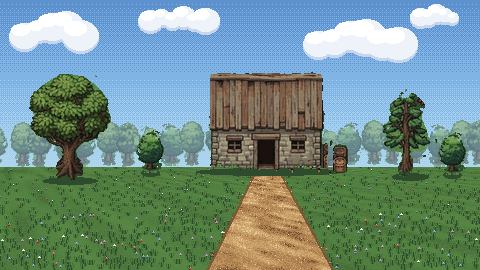
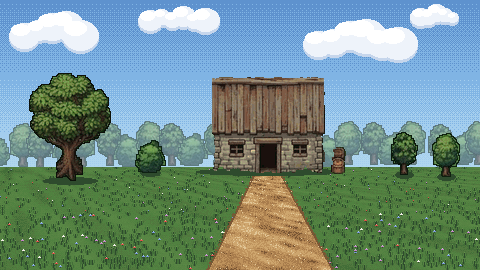
art(fondos): recortes limpios en los pétalos y ojos amables para Alex
- Los árboles, la florería, los barriles y el banco de los fondos de pétalos ya no traen restos
  del pasto del pueblo: recorte() decide cada píxel por color (núcleo de la forma contra el
  anillo de afuera), deja solo madera en el tronco, corta derecho la base de las casas, se
  queda con la silueta principal sin pelos ni agujeros y le pone contorno oscuro. Los pinos,
  que en la pintura se montan de a dos, salen de los fondos; la florería ya no se lleva el seto.
- Los ojos de Alex se repintan como los de Liss: pestañas, iris café tibio, un blanco suave y
  un solo píxel de brillo, el mismo dibujo en los dos ojos.

Claude-Session: https://claude.ai/code/session_01BUPpVNLpGxYMkRXD6AAzZQ

diff --git a/tools/fondos.py b/tools/fondos.py
@@ -22,9 +22,10 @@ from __future__ import annotations
 
 import argparse
 import sys
+from collections import deque
 from pathlib import Path
 
-from PIL import Image, ImageDraw
+from PIL import Image, ImageChops, ImageDraw, ImageFilter
 
 sys.path.insert(0, str(Path(__file__).parent))
 import escenarios  # noqa: E402
@@ -66,20 +67,176 @@ def mapa(nombre: str) -> Image.Image:
     return Image.open(ruta).convert("RGB")
 
 
-def recorte(imagen: Image.Image, formas: list[tuple], ajuste: int = 3) -> Image.Image:
-    """Un pedazo de la pintura con fondo transparente, con el borde pegado a la silueta pintada
-    (la misma receta que los frentes de los mapas)."""
-    mascara = escenarios.mascara_frente({"formas": formas}, imagen, ajuste)
-    caja = mascara.getbbox()
-    pieza = imagen.crop(caja).convert("RGBA")
-    pieza.putalpha(mascara.crop(caja).point(lambda v: 255 if v > 127 else 0))
-    return pieza
+def _luz(color) -> float:
+    return 0.3 * color[0] + 0.59 * color[1] + 0.11 * color[2]
+
+
+def _distancia(a, b) -> int:
+    return 3 * (a[0] - b[0]) ** 2 + 4 * (a[1] - b[1]) ** 2 + 2 * (a[2] - b[2]) ** 2
+
+
+def _vecinos4(x: int, y: int):
+    return ((x + 1, y), (x - 1, y), (x, y + 1), (x, y - 1))
+
+
+def recorte(imagen: Image.Image, formas: list[tuple], tronco: tuple | None = None,
+            base: int | None = None, contorno: bool = True) -> Image.Image:
+    """Un pedazo de la pintura listo para ir contra el cielo: sin un píxel del suelo que tenía.
+
+    Los frentes de los mapas se recortan con una forma y un ajuste de borde, y algo de pasto
+    les queda pegado: no importa, porque se dibujan encima del mismo pasto. Contra un cielo, en
+    cambio, cada resto se ve. Así que acá:
+
+    1. los colores del objeto salen de su núcleo (la forma achicada) y los del suelo de un anillo
+       por fuera de la forma; cada color se queda del lado donde es más común;
+    2. el suelo es lo que se alcanza desde el borde pasando solo por colores de suelo, así un
+       verde de pasto adentro de la copa (rodeado de hojas) no se pierde;
+    3. en `tronco` (x, desde, piso, medio ancho) manda otra regla: solo sobrevive la madera, que
+       tira a rojo, y no el pasto de al lado ni la sombra del piso;
+    4. con `base`, todo lo de abajo de esa fila se corta derecho (una casa apoya en una línea);
+    5. limpieza: se abre la silueta (fuera lo de menos de 3 px de grueso), queda solo la parte
+       más grande y sin agujeros, y se le pone un contorno oscuro con el tono más hondo del
+       objeto, para que el borde se lea pintado y no recortado.
+
+    No todo sale bien recortado: los pinos del pueblo están montados de a dos o tres y se llevan
+    ramas del vecino. Por eso los fondos usan solo los árboles que quedan limpios.
+    """
+    mascara_forma = Image.new("L", imagen.size, 0)
+    for forma in formas:
+        escenarios.dibujar_forma(ImageDraw.Draw(mascara_forma), forma, 255)
+    if tronco:
+        tx, desde, piso, medio = tronco
+        escenarios.dibujar_forma(ImageDraw.Draw(mascara_forma), ("rect", tx - medio, desde, tx + medio + 1, piso + 1), 255)
+    x0, y0, x1, y1 = mascara_forma.getbbox()
+    margen = 12
+    caja = (max(0, x0 - margen), max(0, y0 - margen), min(imagen.width, x1 + margen),
+            min(imagen.height, y1 + margen))
+    zona = imagen.crop(caja).convert("RGB")
+    ancho, alto = zona.size
+    px = zona.load()
+    forma = mascara_forma.crop(caja)
+    lado = max(2, round(min(x1 - x0, y1 - y0) * 0.22))
+    nucleo = forma.filter(ImageFilter.MinFilter(2 * lado + 1)).load()
+    cerca = forma.filter(ImageFilter.MaxFilter(5)).load()        # la forma, 2 px más ancha
+    lejos = forma.filter(ImageFilter.MaxFilter(9)).load()        # de acá para afuera es suelo
+
+    def en_tronco(x: int, y: int) -> bool:
+        if not tronco:
+            return False
+        gx, gy = x + caja[0], y + caja[1]
+        return tx - medio - 2 <= gx <= tx + medio + 2 and gy >= desde
+
+    del_objeto, del_suelo = {}, {}
+    for y in range(alto):
+        for x in range(ancho):
+            if nucleo[x, y]:
+                del_objeto[px[x, y]] = del_objeto.get(px[x, y], 0) + 1
+            elif not lejos[x, y]:
+                del_suelo[px[x, y]] = del_suelo.get(px[x, y], 0) + 1
+    total_o, total_s = sum(del_objeto.values()) or 1, sum(del_suelo.values()) or 1
+    conocidos = list(del_objeto) + list(del_suelo)
+    clase: dict = {}
+
+    def es_objeto(color) -> bool:
+        if color not in clase:
+            o, s_ = del_objeto.get(color, 0), del_suelo.get(color, 0)
+            if o + s_ == 0:
+                vecino = min(conocidos, key=lambda k: _distancia(k, color))
+                o, s_ = del_objeto.get(vecino, 0), del_suelo.get(vecino, 0)
+            clase[color] = (o + 0.3) / total_o >= (s_ + 0.3) / total_s
+        return clase[color]
+
+    def es_madera(color) -> bool:
+        return color[0] >= color[1] - 2 or _luz(color) < 40
+
+    def es_suelo(x: int, y: int) -> bool:
+        if base is not None and y + caja[1] > base:
+            return True
+        if not cerca[x, y]:
+            return True
+        if en_tronco(x, y):
+            return not es_madera(px[x, y])
+        if nucleo[x, y]:
+            return False
+        return not es_objeto(px[x, y])
+
+    suelo = [[False] * ancho for _ in range(alto)]
+    cola = deque(p for p in [(x, y) for x in range(ancho) for y in (0, alto - 1)] +
+                 [(x, y) for y in range(alto) for x in (0, ancho - 1)] if es_suelo(*p))
+    for x, y in cola:
+        suelo[y][x] = True
+    while cola:
+        x, y = cola.popleft()
+        for nx, ny in _vecinos4(x, y):
+            if 0 <= nx < ancho and 0 <= ny < alto and not suelo[ny][nx] and es_suelo(nx, ny):
+                suelo[ny][nx] = True
+                cola.append((nx, ny))
+
+    marca = Image.new("L", (ancho, alto), 0)
+    marca.putdata([0 if suelo[y][x] or not cerca[x, y] else 255 for y in range(alto) for x in range(ancho)])
+    marca = limpiar(marca)
+
+    pieza = Image.new("RGBA", (ancho, alto), (0, 0, 0, 0))
+    pieza.paste(zona, (0, 0), marca)
+    if contorno:
+        hondos = sorted(del_objeto, key=_luz)[:max(1, len(del_objeto) // 12)]
+        tinta = tuple(round(sum(c[i] for c in hondos) / len(hondos) * 0.65) for i in range(3))
+        borde = ImageChops.subtract(marca.filter(ImageFilter.MaxFilter(3)), marca)
+        pieza.paste(tinta + (255,), (0, 0), borde)
+    return pieza.crop(pieza.getbbox())
+
+
+def limpiar(marca: Image.Image) -> Image.Image:
+    """La silueta sin basura: abierta (fuera los pelos y los grumos de menos de 3 px), la parte
+    más grande sola y sin agujeros."""
+    abierta = marca.filter(ImageFilter.MinFilter(3)).filter(ImageFilter.MaxFilter(3))
+    ancho, alto = abierta.size
+    datos = abierta.load()
+    visto = [[False] * ancho for _ in range(alto)]
+    mejor: list = []
+    for y in range(alto):
+        for x in range(ancho):
+            if datos[x, y] and not visto[y][x]:
+                parte, cola = [], deque([(x, y)])
+                visto[y][x] = True
+                while cola:
+                    a, b = cola.popleft()
+                    parte.append((a, b))
+                    for na, nb in _vecinos4(a, b):
+                        if 0 <= na < ancho and 0 <= nb < alto and datos[na, nb] and not visto[nb][na]:
+                            visto[nb][na] = True
+                            cola.append((na, nb))
+                if len(parte) > len(mejor):
+                    mejor = parte
+    sola = Image.new("L", (ancho, alto), 0)
+    sd = sola.load()
+    for x, y in mejor:
+        sd[x, y] = 255
+    # Sin agujeros: lo vacío que no se alcanza desde el borde pasa a ser parte de la silueta.
+    afuera = [[False] * ancho for _ in range(alto)]
+    cola = deque(p for p in [(x, y) for x in range(ancho) for y in (0, alto - 1)] +
+                 [(x, y) for y in range(alto) for x in (0, ancho - 1)] if not sd[p[0], p[1]])
+    for x, y in cola:
+        afuera[y][x] = True
+    while cola:
+        a, b = cola.popleft()
+        for na, nb in _vecinos4(a, b):
+            if 0 <= na < ancho and 0 <= nb < alto and not sd[na, nb] and not afuera[nb][na]:
+                afuera[nb][na] = True
+                cola.append((na, nb))
+    for y in range(alto):
+        for x in range(ancho):
+            if not afuera[y][x]:
+                sd[x, y] = 255
+    return sola
 
 
 def arbol(imagen: Image.Image, tronco: int, piso: int, medio: int, cx: int, cy: int, rx: int, ry: int) -> Image.Image:
     """Un árbol del pueblo recortado entero: copa y tronco. Mismos números que `#! arbol` en
     maps/pueblo.txt."""
-    return recorte(imagen, [("elipse", cx, cy, rx, ry), ("rect", tronco - medio, cy, tronco + medio + 1, piso + 1)])
+    # La regla del tronco (solo madera) empieza abajo de la copa: si empezara adentro, se comería
+    # las hojas que tapan el tronco y el tronco quedaría suelto.
+    return recorte(imagen, [("elipse", cx, cy, rx, ry)], tronco=(tronco, cy + round(ry * 0.85), piso, medio))
 
 
 def a_lo_lejos(pieza: Image.Image, cielo: tuple, cuanto: float) -> Image.Image:
@@ -97,6 +254,21 @@ def a_lo_lejos(pieza: Image.Image, cielo: tuple, cuanto: float) -> Image.Image:
 def apoyar(lienzo: Image.Image, pieza: Image.Image, x: int, piso: int) -> None:
     """Pega una pieza con su base en la línea `piso` y centrada en `x`."""
     lienzo.alpha_composite(pieza, (x - pieza.width // 2, piso - pieza.height))
+
+
+def arboles(imagen: Image.Image) -> dict[str, Image.Image]:
+    """Los árboles del pueblo que se recortan limpios: el roble grande y tres redondos. (Los mismos
+    números que sus `#! arbol` en maps/pueblo.txt.)"""
+    return {
+        "roble": arbol(imagen, 298, 110, 10, 298, 38, 40, 36),
+        "redondo": arbol(imagen, 744, 208, 4, 744, 188, 12, 18),
+        "alto": arbol(imagen, 360, 52, 4, 360, 27, 12, 17),
+        "claro": arbol(imagen, 230, 52, 4, 230, 27, 12, 17),
+    }
+
+
+def espejo(pieza: Image.Image) -> Image.Image:
+    return pieza.transpose(Image.Transpose.FLIP_LEFT_RIGHT)
 
 
 # --- cielo y pasto ------------------------------------------------------------------------------
@@ -229,12 +401,12 @@ def fondo_petalos1() -> Image.Image:
         nube(lienzo, x, y, w, sal, tonos_nube)
 
     verdes = paleta_de_pasto(pueblo)
-    lejanos = [arbol(pueblo, 744, 208, 4, 744, 188, 12, 18), arbol(pueblo, 40, 205, 4, 41, 185, 13, 16),
-               arbol(pueblo, 360, 52, 4, 360, 27, 12, 17), arbol(pueblo, 230, 52, 4, 230, 27, 12, 17)]
+    arbol_ = arboles(pueblo)
+    lejanos = [arbol_["redondo"], arbol_["alto"], arbol_["claro"]]
     for i, x in enumerate(range(-6, ANCHO + 20, 22)):
-        pieza = a_lo_lejos(lejanos[(i * 3) % len(lejanos)], celeste, 0.5)
+        pieza = a_lo_lejos(lejanos[(i * 2) % len(lejanos)], celeste, 0.5)
         if ruido(i, 0, 73) > 0.5:                            # espejados, para que no se repitan
-            pieza = pieza.transpose(Image.Transpose.FLIP_LEFT_RIGHT)
+            pieza = espejo(pieza)
         apoyar(lienzo, pieza, x + int(ruido(i, 0, 71) * 8), HORIZONTE + 1 - int(ruido(i, 0, 72) * 4))
 
     lienzo.paste(pasto(verdes, [(214, 82, 72), (240, 236, 228), (122, 150, 214), (196, 132, 196)], 5),
@@ -242,26 +414,23 @@ def fondo_petalos1() -> Image.Image:
     tierra = [(122, 86, 52), (168, 124, 76), (190, 146, 92), (206, 166, 110), (226, 198, 150)]
     camino(lienzo, (256, 278), (206, 334), tierra)
 
-    floreria = recorte(pueblo, [("rect", 606, 77, 723, 176)])
-    barriles = recorte(pueblo, [("rect", 720, 145, 738, 179)])
+    # El techo llega a la columna 720 y la pared a la 718; justo al lado empieza un seto, que no va.
+    floreria = recorte(pueblo, [("rect", 606, 77, 721, 138), ("rect", 606, 138, 719, 176)], base=174,
+                       contorno=False)
+    barriles = recorte(pueblo, [("rect", 722, 145, 738, 179)], base=178, contorno=False)
     sombra_al_pie(lienzo, 196, 340, HORIZONTE + 4, verdes[0])
     apoyar(lienzo, floreria, 268, HORIZONTE + 6)
     apoyar(lienzo, barriles, 338, HORIZONTE + 7)
 
-    roble = arbol(pueblo, 298, 110, 10, 298, 38, 40, 36)
-    pino = recorte(pueblo, [("poli", [(466, 44), (480, 56), (490, 80), (494, 96), (486, 106), (470, 108),
-                                       (470, 126), (462, 126), (462, 108), (448, 106), (444, 96), (448, 76),
-                                       (456, 56)])])
-    redondo = arbol(pueblo, 744, 208, 4, 744, 188, 12, 18)
-    for pieza, x, piso in ((roble, 70, HORIZONTE + 14), (redondo, 150, HORIZONTE + 6),
-                           (pino, 410, HORIZONTE + 10), (redondo, 452, HORIZONTE + 8)):
+    for pieza, x, piso in ((arbol_["roble"], 70, HORIZONTE + 14), (arbol_["redondo"], 150, HORIZONTE + 6),
+                           (espejo(arbol_["alto"]), 404, HORIZONTE + 8), (arbol_["claro"], 446, HORIZONTE + 10)):
         sombra_al_pie(lienzo, x - pieza.width // 3, x + pieza.width // 3, piso - 1, verdes[0])
         apoyar(lienzo, pieza, x, piso)
     return lienzo.convert("RGB")
 
 
 def fondo_petalos2() -> Image.Image:
-    """El parque a las seis de la tarde: pinos, el banco del pícnic y el sol bajando."""
+    """El parque a las seis de la tarde: árboles, el banco del pícnic y el sol bajando."""
     pueblo = mapa("pueblo")
     horizonte_cielo = (244, 178, 98)
     lienzo = Image.new("RGBA", (ANCHO, ALTO), (0, 0, 0, 255))
@@ -276,27 +445,20 @@ def fondo_petalos2() -> Image.Image:
         nube(lienzo, x, y, w, sal, tonos_nube)
 
     verdes = paleta_de_pasto(pueblo)
-    lejanos = [arbol(pueblo, 744, 208, 4, 744, 188, 12, 18), arbol(pueblo, 360, 52, 4, 360, 27, 12, 17)]
-    pinos = [recorte(pueblo, [("poli", puntos)]) for puntos in (
-        [(580, 266), (598, 290), (604, 318), (600, 340), (592, 346), (592, 352), (580, 352), (580, 346),
-         (566, 342), (560, 318), (564, 292)],
-        [(708, 394), (718, 410), (728, 428), (738, 448), (740, 462), (724, 468), (716, 470), (716, 481),
-         (706, 481), (706, 470), (690, 466), (674, 460), (676, 444), (688, 428), (698, 410)],
-    )]
+    arbol_ = arboles(pueblo)
+    lejanos = [arbol_["alto"], arbol_["redondo"], arbol_["claro"]]
     suelo = Image.new("RGBA", (ANCHO, ALTO), (0, 0, 0, 0))
-    for i, x in enumerate(range(-8, ANCHO + 20, 20)):
-        pieza = a_lo_lejos((lejanos + pinos)[(i * 3) % 4], (200, 140, 130), 0.45)
+    for i, x in enumerate(range(-8, ANCHO + 20, 18)):
+        pieza = a_lo_lejos(lejanos[(i * 2) % len(lejanos)], (200, 140, 130), 0.45)
         if ruido(i, 1, 73) > 0.5:
-            pieza = pieza.transpose(Image.Transpose.FLIP_LEFT_RIGHT)
+            pieza = espejo(pieza)
         apoyar(suelo, pieza, x + int(ruido(i, 1, 71) * 8), HORIZONTE + 1 - int(ruido(i, 1, 72) * 5))
     suelo.paste(pasto(verdes, [(214, 82, 72), (240, 236, 228), (196, 132, 196)], 9), (0, HORIZONTE))
 
-    banco = recorte(pueblo, [("rect", 545, 358, 588, 387)])
-    canasta = recorte(pueblo, [("rect", 586, 372, 606, 396)])
-    roble = arbol(pueblo, 537, 158, 10, 535, 92, 40, 36)
-    for pieza, x, piso in ((roble, 92, HORIZONTE + 16), (pinos[0], 196, HORIZONTE + 10),
-                           (banco, 272, HORIZONTE + 14), (canasta, 304, HORIZONTE + 16),
-                           (pinos[1], 404, HORIZONTE + 12)):
+    banco = recorte(pueblo, [("rect", 545, 358, 588, 387)], base=386, contorno=False)
+    for pieza, x, piso in ((espejo(arbol_["roble"]), 404, HORIZONTE + 16), (arbol_["claro"], 70, HORIZONTE + 8),
+                           (arbol_["alto"], 122, HORIZONTE + 12), (banco, 250, HORIZONTE + 14),
+                           (espejo(arbol_["redondo"]), 316, HORIZONTE + 9)):
         sombra_al_pie(suelo, x - pieza.width // 3, x + pieza.width // 3, piso - 1, verdes[0])
         apoyar(suelo, pieza, x, piso)
 

diff --git a/tools/arte_extra.py b/tools/arte_extra.py
@@ -245,15 +245,20 @@ BIGOTE_SPRITE = [
 ]
 
 TINTA_SOFI = (44, 28, 40)
-# Los ojos de Alex, repintados: al bajar el retrato, el brillo de un ojo quedaba a un lado y el del
-# otro al otro (y la paleta lo teñía de verde). Los dos iguales, con la luz de arriba a la izquierda.
-OJO = {"k": (22, 12, 26), "n": (74, 46, 66), "W": (252, 246, 236), "w": (196, 186, 198)}
+# Los ojos de Alex, repintados a la manera de los de Liss: línea de pestañas arriba, iris café
+# tibio (no negro), un blanco suave a los lados y un solo píxel de brillo. Los de la hoja eran un
+# bloque oscuro de 4 × 5 que, al bajar el retrato, se veía amenazante y con el brillo desparejo.
+# El mismo dibujo va en los dos ojos (corrido, no espejado): el brillo queda en el mismo lugar.
+OJO = {"k": (30, 18, 30), "d": (72, 44, 54), "i": (120, 78, 70), "W": (255, 248, 236),
+       "w": (222, 200, 192), "p": (252, 196, 154), "q": (240, 168, 132), "s": (214, 140, 112)}
 OJO_RETRATO = [
-    "kkkk",
-    "kWwk",
-    "kWkk",
-    "kkkk",
-    "knnk",
+    "ppppppp",
+    "ppkkkpp",
+    "pkddikp",
+    "pwdWiwp",
+    "ppiiipp",
+    "ppqsqpp",
+    "ppppppp",
 ]
 
 COLETA = {"o": TINTA_SOFI, "d": (100, 54, 38), "m": (148, 88, 54), "l": (196, 134, 82),
@@ -523,8 +528,8 @@ def retrato(hoja: Hoja, ident: str) -> tuple[Image.Image, set]:
                             abajo=1.0 if receta.get("pelo_largo") else None)
     imagen = a_escala(cuadrado(figura), RETRATO)
     if ident == "alex":
-        for x in (17, 29):
-            fijos |= pintar(imagen, x, 24, OJO_RETRATO, OJO)
+        for x in (15, 28):                                 # eje de la cara: x = 24.5
+            fijos |= pintar(imagen, x, 22, OJO_RETRATO, OJO)
     elif ident == "flora":
         flor = flor_del_pelo(hoja, 11)
         imagen.alpha_composite(flor, (32, 3))

diff --git a/docs/arte.md b/docs/arte.md
@@ -65,7 +65,7 @@ La hoja no trae a los personajes tal como los pide el guion, así que a algunos 
 
 | Personaje | De la hoja | Retoque |
 |---|---|---|
-| Alex | el chico rizado de suéter verde | los ojos se repintan iguales, con el brillo arriba a la izquierda |
+| Alex | el chico rizado de suéter verde | los ojos se repintan como los de Liss: pestañas arriba, iris café tibio, un blanco suave y un solo píxel de brillo, el mismo dibujo en los dos (los de la hoja eran un bloque oscuro que se veía amenazante) |
 | Doña Flora | la chica de lentes | canas (el pelo se tiñe conservando luces y sombras) y la flor amarilla del icono en el pelo |
 | Don Beto | el chico de lentes | canoso y con bigote |
 | Sofi | la niña de la sudadera crema | castaña y con coletas de listón amarillo, para que no se confunda con Alex; su cuerpo se pinta a mano (la hoja no la trae de frente) con la cabeza bajada de su retrato |
@@ -223,6 +223,13 @@ El título, los créditos y las dos rondas de pétalos tenían fondos de rectán
 - **pétalos 2**: el parque al atardecer, con pinos, el banco del pícnic y la luz de la colina.
 
 En el pasto de los fondos no hay flores amarillas: el amarillo es de los pétalos que se atrapan.
+
+Contra un cielo se ve cada resto de pasto, así que los recortes de los fondos no son los de los
+frentes: `recorte()` decide cada píxel por color (lo del núcleo de la forma contra lo del anillo
+de afuera), en el tronco deja solo madera, corta derecho la base de las casas, se queda con la
+parte más grande sin pelos ni agujeros y le pone un contorno oscuro. Solo se usan los árboles que
+salen limpios (el roble grande y tres redondos): los pinos del pueblo están montados de a dos y
+se llevan ramas del vecino.
 
 `node tools/validar_contenido.js` recorre cada mapa con la caja de pies de Liss y falla si alguna
 puerta, objeto o NPC queda inalcanzable.
